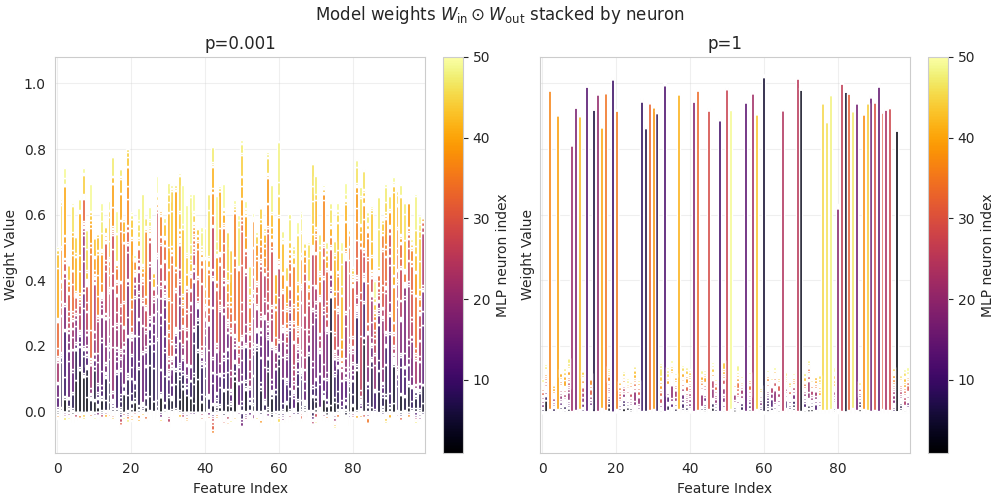
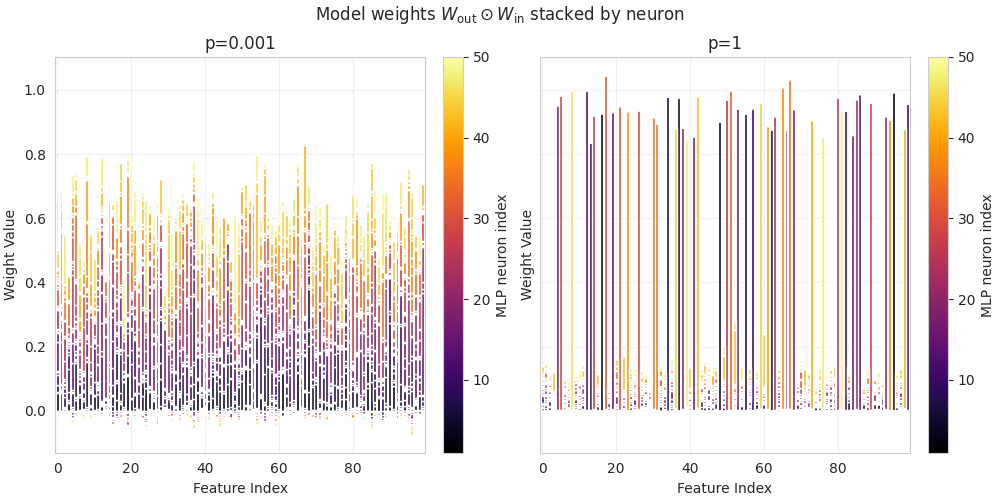
Fix title of weight bars plot

diff --git a/paper_code/nb1_sparsity_regimes.py b/paper_code/nb1_sparsity_regimes.py
@@ -63,7 +63,7 @@ plt.show()
 
 
 fig, (ax1, ax2) = plt.subplots(1, 2, constrained_layout=True, figsize=(10, 5), sharey=True)
-fig.suptitle(r"Model weights $W_{\rm in} \odot W_{\rm out}$ stacked by neuron")
+fig.suptitle(r"Model weights $W_{\rm out} \odot W_{\rm in}$ stacked by neuron")
 for model, ax, p in zip([models[0], models[-1]], [ax1, ax2], [str_train_ps[0], str_train_ps[-1]]):
     ax.set_title("p=" + p)
     model.plot_weight_bars(ax=ax)
